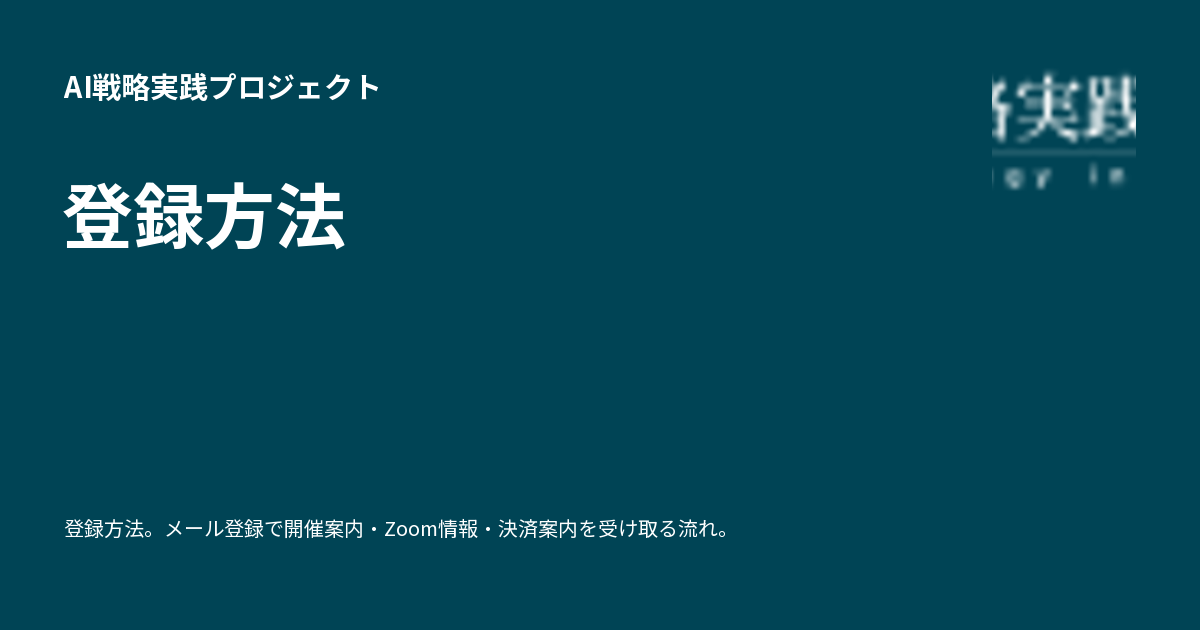
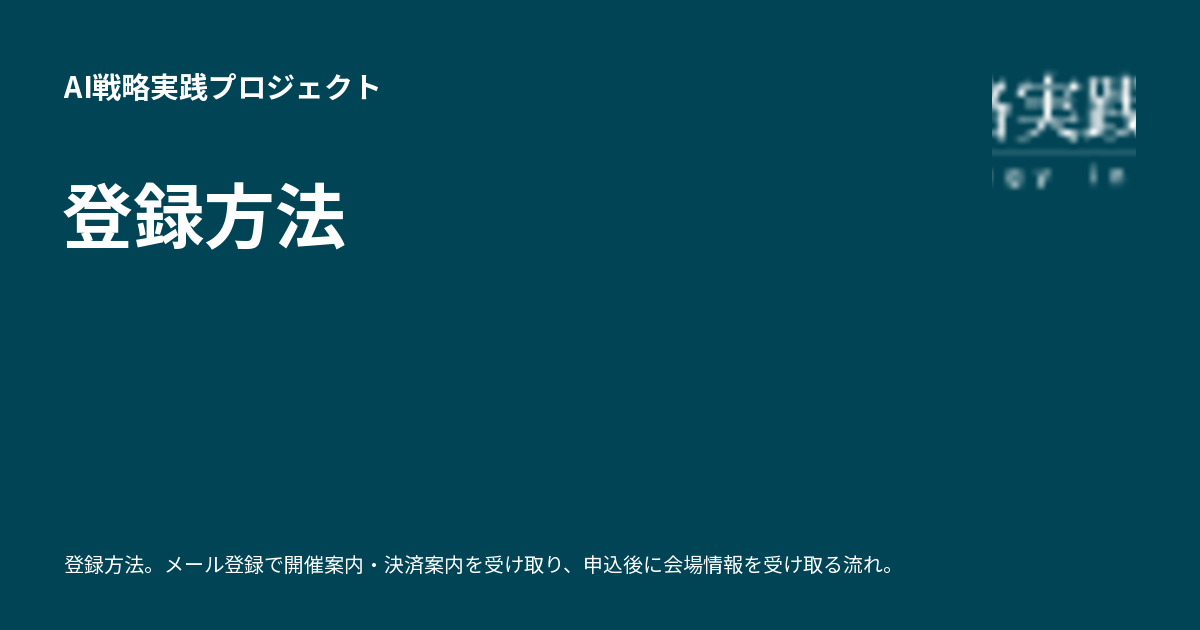
Deployed afd3937 with MkDocs version: 1.6.1

Changed region(s): [[0.0308, 0.8143, 0.74, 0.9349]]

diff --git a/join/register/index.html b/join/register/index.html
@@ -3,7 +3,7 @@
       <meta charset="utf-8">
       <meta name="viewport" content="width=device-width,initial-scale=1">
       
-        <meta name="description" content="登録方法。メール登録で開催案内・Zoom情報・決済案内を受け取る流れ。">
+        <meta name="description" content="登録方法。メール登録で開催案内・決済案内を受け取り、申込後に会場情報を受け取る流れ。">
       
       
         <meta name="author" content="AI戦略実践プロジェクト">
@@ -73,7 +73,7 @@
   
 <meta property="og:type" content="website">
 <meta property="og:title" content="登録方法 - AI戦略実践プロジェクト">
-<meta property="og:description" content="登録方法。メール登録で開催案内・Zoom情報・決済案内を受け取る流れ。">
+<meta property="og:description" content="登録方法。メール登録で開催案内・決済案内を受け取り、申込後に会場情報を受け取る流れ。">
 <meta property="og:image" content="https://ai-strategy.antecanis.com/assets/images/social/join/register.png">
 <meta property="og:image:type" content="image/png">
 <meta property="og:image:width" content="1200">
@@ -81,7 +81,7 @@
 <meta property="og:url" content="https://ai-strategy.antecanis.com/join/register/">
 <meta property="twitter:card" content="summary_large_image">
 <meta property="twitter:title" content="登録方法 - AI戦略実践プロジェクト">
-<meta property="twitter:description" content="登録方法。メール登録で開催案内・Zoom情報・決済案内を受け取る流れ。">
+<meta property="twitter:description" content="登録方法。メール登録で開催案内・決済案内を受け取り、申込後に会場情報を受け取る流れ。">
 <meta property="twitter:image" content="https://ai-strategy.antecanis.com/assets/images/social/join/register.png">
 <link href="../../assets/stylesheets/glightbox.min.css" rel="stylesheet"><script src="../../assets/javascripts/glightbox.min.js"></script><style id="glightbox-style">
             html.glightbox-open { overflow: initial; height: 100%; }
@@ -1306,14 +1306,16 @@
 <p class="admonition-title">メール配信について</p>
 <p>ご案内配信メールは <strong>[email redacted]</strong> からお送りします。プロモーションメール等に
 紛れて見落とされないよう、連絡先登録やメール振り分けでの対応をお勧めします。配信は
-いつでもご自身でキャンセルできます。開催前日までにご登録いただいた方へ、Zoom情報等を
-メールでお送りします。</p>
+いつでもご自身でキャンセルできます。ご登録後、開催案内とStripe決済のご案内を順次メールで
+お送りします（オンライン会場のZoom情報・当日資料は、お申し込み後にご案内します）。</p>
 </div>
 <h2 id="ご参加の流れ">ご参加の流れ<a class="headerlink" href="#ご参加の流れ" title="Permanent link">¶</a></h2>
 <ol>
-<li>登録フォームからメール登録（無料）。</li>
-<li>開催案内・Zoom情報・Stripe決済のご案内をメールで受け取る。</li>
-<li><strong>申込当月回は無料</strong>で参加。翌月回から課金開始（いつでも解約可）。</li>
+<li>登録フォームからメール登録（無料）。次回以降の開催案内を順次メールで受け取る。</li>
+<li>Stripe決済のご案内をメールで受け取る（参加コホートに応じて個別にご案内します）。</li>
+<li>Stripeで参加のお申し込み（決済登録）。<strong>申込当月回は無料</strong>、翌月回から課金開始（いつでもご自身で解約可）。</li>
+<li>お申し込み後に、オンライン会場（Zoom）情報・当日資料と、参加者コミュニティ（Circle）への
+   ご招待を受け取る（会場リンク・資料は主に Circle 内でご案内します）。</li>
 </ol>
 <p>参加費・課金のしくみは <strong><a href="../">参加費と決済</a></strong> に図でまとめています。どなたに向けた
 場かは <strong><a href="../../about/#想定参加者">背景と狙い</a></strong> をご覧ください。</p>

diff --git a/sessions/schedule/index.html b/sessions/schedule/index.html
@@ -779,10 +779,10 @@
 </li>
       
         <li class="md-nav__item">
-  <a href="#今後の月次予定仮" class="md-nav__link">
+  <a href="#今後の月次予定" class="md-nav__link">
     <span class="md-ellipsis">
       
-        今後の月次予定（仮）
+        今後の月次予定
       
     </span>
   </a>
@@ -1288,10 +1288,10 @@
 </li>
       
         <li class="md-nav__item">
-  <a href="#今後の月次予定仮" class="md-nav__link">
+  <a href="#今後の月次予定" class="md-nav__link">
     <span class="md-ellipsis">
       
-        今後の月次予定（仮）
+        今後の月次予定
       
     </span>
   </a>
@@ -1357,7 +1357,7 @@
 </ul>
 </div>
 <p><a class="md-button md-button--primary" href="https://mailchi.mp/antecanis/ai-strategy" rel="noopener" target="_blank">案内メールを受け取る（無料登録）</a></p>
-<h2 id="今後の月次予定仮">今後の月次予定（仮）<a class="headerlink" href="#今後の月次予定仮" title="Permanent link">¶</a></h2>
+<h2 id="今後の月次予定">今後の月次予定<a class="headerlink" href="#今後の月次予定" title="Permanent link">¶</a></h2>
 <p>第2回以降の月次セッションの予定です。継続参加いただける方はカレンダー等にお控えください。
 いずれも<strong>火曜20時スタート予定</strong>（追加日程希望者が多数の場合、翌月上旬に追加開催日を
 設けることがあります）。</p>
@@ -1429,10 +1429,12 @@
 → <strong><a href="../../digests/vol-02/">第2回ダイジェスト（6/23）</a></strong> ／
 <strong><a href="../../digests/">第1回ダイジェスト（5/26・6/15）</a></strong></p>
 <h2 id="今後の展開検討中">今後の展開（検討中）<a class="headerlink" href="#今後の展開検討中" title="Permanent link">¶</a></h2>
+<p>参加者コミュニティ（Circle）とセッションアーカイブはすでに開設・運用しています。
+これに加えて、以下を検討しています。</p>
 <ul>
-<li>オンラインコミュニティの設置（Slackなどを検討）</li>
+<li>参加者が持ち込む内容を発表・紹介する時間</li>
+<li>AI戦略実践アプリケーションを使える環境の整備</li>
 <li>対面セッション・交流会の不定期開催（費用別途）</li>
-<li>実施済み回の資料アーカイブの設置</li>
 <li>取り扱いテーマの募集</li>
 <li>法人対象の個別開催・テーマカスタマイズ対応 → <strong><a href="../../join/corporate/">法人の方へ</a></strong></li>
 </ul>

diff --git a/index.html b/index.html
@@ -1204,7 +1204,7 @@
         <a class="glightbox" href="assets/img/session-build.png" data-title="事業デザイン対抗戦アプリの制作画面">
           <img src="assets/img/session-build.png" alt="事業デザイン対抗戦アプリの制作画面">
         </a>
-        <div class="cap">セッションで使用する実践アプリ「事業デザイン対抗戦」。市場の声を聞き、AIと案を作り込む。</div>
+        <div class="cap">実践アプリ「事業デザイン対抗戦」。市場の声を聞き、AIと案を作り込む。</div>
       </div>
     </div>
   </section>
@@ -1272,13 +1272,13 @@
           <a class="glightbox" href="assets/img/session-build.png" data-title="事業デザイン対抗戦アプリ">
             <img src="assets/img/session-build.png" alt="事業デザイン対抗戦アプリの制作画面">
           </a>
-          <div class="cap"><b>事業デザイン対抗戦。</b>市場の声を聞き、AIと一緒にキービジュアル・コピー・プロトタイプを作り込む。<span class="note">セッションで使用</span></div>
+          <div class="cap"><b>事業デザイン対抗戦。</b>市場の声を聞き、AIと一緒にキービジュアル・コピー・プロトタイプを作り込む。</div>
         </div>
         <div class="fig">
           <a class="glightbox" href="assets/img/session-result.png" data-title="AI戦略対抗戦の合議結果画面">
             <img src="assets/img/session-result.png" alt="AI戦略対抗戦の合議結果画面">
           </a>
-          <div class="cap"><b>AI戦略対抗戦。</b>複数のAI（Gemini／Claude／GPT）が多視点で評価・合議し、戦略案を採点する。<span class="note">セッションで使用</span></div>
+          <div class="cap"><b>AI戦略対抗戦。</b>複数のAI（Gemini／Claude／GPT）が多視点で評価・合議し、戦略案を採点する。</div>
         </div>
       </div>
       <div class="read" style="margin-top:26px"><a class="textlink" href="sessions/">進め方と持ち帰るものを詳しく →</a></div>
@@ -1369,7 +1369,7 @@
       <div class="cards">
         <div class="card"><div class="k">はじめての方</div><h3>プロジェクトについて</h3><p>背景・狙い、設計思想、主催者を知る。</p><a href="about/">→ 詳しく見る</a></div>
         <div class="card"><div class="k">参加を検討</div><h3>参加する</h3><p>参加費・決済、登録方法、法人のご利用。</p><a href="join/">→ 参加方法</a></div>
-        <div class="card"><div class="k">受講中の方</div><h3>スタートガイド・用語集</h3><p>当日の準備と進め方、用語の確認。</p><a href="start-guide/">→ ガイドへ</a></div>
+        <div class="card"><div class="k">これから参加する方</div><h3>スタートガイド・用語集</h3><p>当日までの準備と進め方、用語の確認。</p><a href="start-guide/">→ ガイドへ</a></div>
         <div class="card"><div class="k">内容を見たい</div><h3>セッション・ダイジェスト</h3><p>各回のテーマと過去回の公開ダイジェスト。</p><a href="digests/">→ ダイジェスト</a></div>
       </div>
     </div>

diff --git a/start-guide/index.html b/start-guide/index.html
@@ -3,7 +3,7 @@
       <meta charset="utf-8">
       <meta name="viewport" content="width=device-width,initial-scale=1">
       
-        <meta name="description" content="受講準備と進め方のスタートガイド。初参加でもスムーズに臨むための要点。">
+        <meta name="description" content="参加準備と進め方のスタートガイド。初参加でもスムーズに臨むための要点。">
       
       
         <meta name="author" content="AI戦略実践プロジェクト">
@@ -73,7 +73,7 @@
   
 <meta property="og:type" content="website">
 <meta property="og:title" content="スタートガイド - AI戦略実践プロジェクト">
-<meta property="og:description" content="受講準備と進め方のスタートガイド。初参加でもスムーズに臨むための要点。">
+<meta property="og:description" content="参加準備と進め方のスタートガイド。初参加でもスムーズに臨むための要点。">
 <meta property="og:image" content="https://ai-strategy.antecanis.com/assets/images/social/start-guide.png">
 <meta property="og:image:type" content="image/png">
 <meta property="og:image:width" content="1200">
@@ -81,7 +81,7 @@
 <meta property="og:url" content="https://ai-strategy.antecanis.com/start-guide/">
 <meta property="twitter:card" content="summary_large_image">
 <meta property="twitter:title" content="スタートガイド - AI戦略実践プロジェクト">
-<meta property="twitter:description" content="受講準備と進め方のスタートガイド。初参加でもスムーズに臨むための要点。">
+<meta property="twitter:description" content="参加準備と進め方のスタートガイド。初参加でもスムーズに臨むための要点。">
 <meta property="twitter:image" content="https://ai-strategy.antecanis.com/assets/images/social/start-guide.png">
 <link href="../assets/stylesheets/glightbox.min.css" rel="stylesheet"><script src="../assets/javascripts/glightbox.min.js"></script><style id="glightbox-style">
             html.glightbox-open { overflow: initial; height: 100%; }

diff --git a/about/profile/index.html b/about/profile/index.html
@@ -1277,7 +1277,7 @@ VISITS Technologies株式会社 取締役・共同創業者、株式会社souco 
 <p>マッキンゼー・アンド・カンパニーで戦略コンサルティングに従事した後、独立。AI・データ
 戦略の企業向け助言、事業戦略のためのデータ分析やデータ技術開発、経営・戦略・DX人材の
 育成、イノベーション創出およびスタートアップ経営に携わる。</p>
-<p>講義等の登壇は10年で数百回、累計受講者は数千名に。2015年から継続する2つの経営大学院での
+<p>講義等の登壇は10年で数百回、のべ参加者は数千名に。2015年から継続する2つの経営大学院での
 教員業や次世代人材育成プログラムの中での登壇など、AI・データ駆動経営、AI時代の経営戦略や
 イノベーション、データサイエンスのビジネス適用などのテーマを扱う。</p>
 <p>東京大学理学部物理学科卒・同大学院理学系研究科修士課程修了。</p>